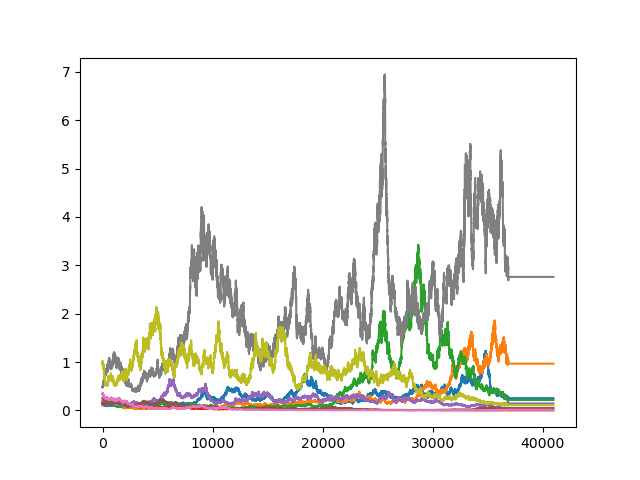
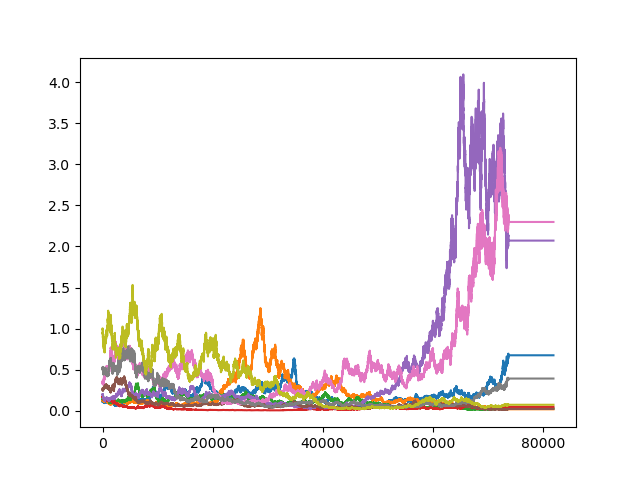
Parallel- Working Code

diff --git a/LIBORSimulator.py b/LIBORSimulator.py
@@ -56,8 +56,11 @@ class LIBORSim(EulerScheme):
         #print(self.result)
         self.matrix = np.array(self.sharedMatrix).reshape(self.matrix.shape)   
 
+    def popMatrix(self, result):
+        for elem in result:
+            self.matrix[elem[0], elem[1]] = elem[2]  
+
     def initCondition(self,maturityIndex):
-        #print(maturityIndex)
         return ((self.model.bondPrices[maturityIndex]-self.model.bondPrices[maturityIndex+1])/((self.model.maturityGrid[maturityIndex+1]-self.model.maturityGrid[maturityIndex])*self.model.bondPrices[maturityIndex+1]))
 
     def subEngine(self, i):
@@ -71,10 +74,9 @@ class LIBORSim(EulerScheme):
                 for j in range(self.matrix.shape[1]):
                     Solver.SamplePath(iter=i, row=j, start=0, SDE=self.model.SDE, timeGrid=self.model.timeGrid, random=self.random[i,j], matrix=self.matrix[i,j])
         else:
-            asyncRes = [Solver.threadPool.apply_async(func = self.subEngine, args=(i,)) for i in range(self.matrix.shape[0])]
+            asyncRes = [Solver.threadPool.apply_async(func = self.subEngine, args=(i,), callback = self.popMatrix) for i in range(self.matrix.shape[0])]
             for ares in asyncRes:
-                for elem in ares.get():
-                    self.matrix[elem[0], elem[1]] = elem[2]      
+                ares.wait()    
         return  
     
     def simulate(self):

diff --git a/main.py b/main.py
@@ -12,7 +12,7 @@ def main():
     timer.start()
     maturityDates = [1,2,3,4,5,6,7,8,9,10]
     bondPrices = [10,9,8,7,6,5,4,3,2,1]
-    simulator = LIBORSim(maturity=maturityDates, prices=bondPrices, measure=0, iter = 20, scale = 12, type=0)
+    simulator = LIBORSim(maturity=maturityDates, prices=bondPrices, measure=0, iter = 10, scale = 13, type=0)
     simulator.simulate() 
     timer.stop()
     simulator.processSP()  
@@ -22,8 +22,8 @@ def main():
 if __name__ == "__main__":
     with multiprocessing.Manager() as manager:
         NumericalSolver.Solver.manager = manager
-        with multiprocessing.Pool(processes=multiprocessing.cpu_count()) as pool:
+        with multiprocessing.Pool(processes=multiprocessing.cpu_count(), maxtasksperchild=25) as pool:
             print("number of cores", multiprocessing.cpu_count())
             NumericalSolver.Solver.setPool(pool)
-            NumericalSolver.Solver.setParallelism(flag=True)
+            NumericalSolver.Solver.setParallelism(flag=False)
             main()
